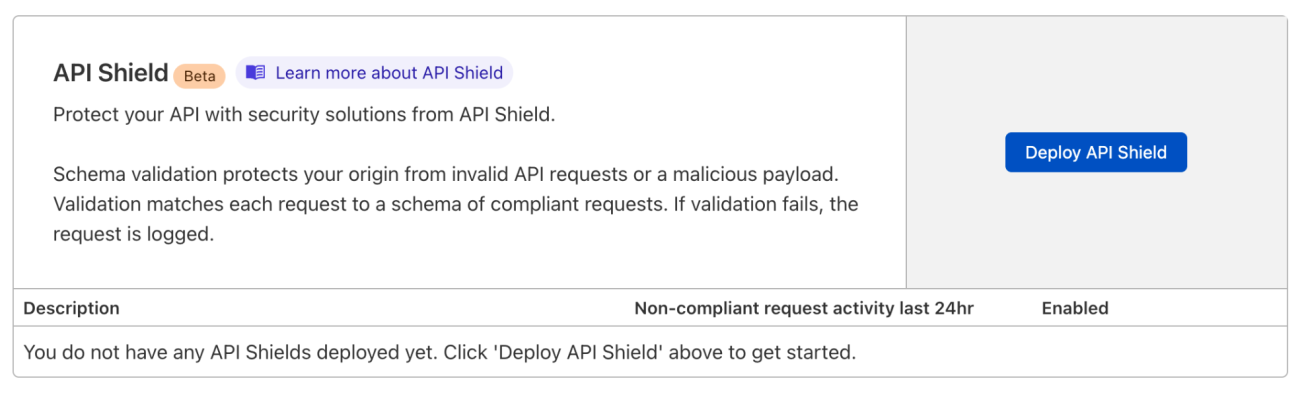
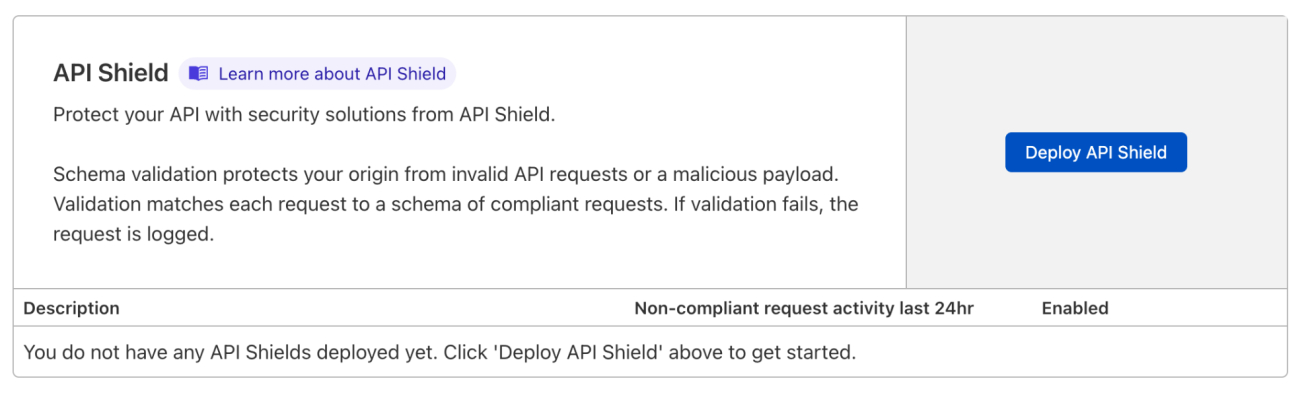
Update Schema Validation docs to GA (#1173)

Changed region(s): [[0.1231, 0.1527, 0.4, 0.2443]]

diff --git a/products/firewall/src/content/cf-dashboard/configure-schema-validation.md b/products/firewall/src/content/cf-dashboard/configure-schema-validation.md
@@ -1,5 +1,6 @@
 ---
 order: 390
+type: overview
 ---
 
 # Configure Schema Validation
@@ -14,7 +15,7 @@ Use the **API Shield** interface to configure API Schema Validation which valida
 
 Before you can configure Schema Validation for an API, you must obtain its API Schema file. API Shield supports API Schemas using OpenAPI Specification v3. The accepted file formats are YAML (files with a `.yml` or `.yaml` file extension) and JSON (files with a `.json` file extension).
 
-## Use the API Shield interface
+## Create an API Shield with Schema Validation
 
 To configure Schema Validation in the Cloudflare dashboard, follow these steps:
 
@@ -70,17 +71,19 @@ To configure Schema Validation in the Cloudflare dashboard, follow these steps:
 
     </Aside>
 
-1. After deploying your API Shield rule, Cloudflare displays a summary of all API endpoints organized by their protection level and what will be the action taken for non-compliant and unprotected requests.
+1. After deploying your API Shield rule, Cloudflare displays a summary of all API endpoints organized by their protection level and what will be the actions taken for non-compliant and unprotected requests.
 
     ![API Shield Review endpoints wizard step](../images/api-shield-review-endpoints-step.png)
 
-    The API Shield rule will validate all incoming requests addressed at the endpoints listed in the **Protected** section. The several columns in the table list the validations deployed for each endpoint, according to the information described in the API Schema file. The **Action** column indicates the action taken by API Shield for incoming requests that fail Schema Validation.
+    The API Shield rule will validate all incoming requests addressed at the endpoints listed in **API Schema endpoints**. The several columns in the table list the validations deployed for each endpoint, according to the information described in the API Schema file.
 
-    The **Unprotected** section lists endpoints that API Shield will not protect. This list includes any endpoints with API Schema definitions that API Shield does not support. There’s an additional validation for handling requests addressed to any other endpoints or URLs other than the ones described in the schema file. The **Action** column indicates the action taken by API Shield for all incoming requests addressed at these unprotected API endpoints.
+1. In the **Endpoint action** dropdown, select the action that API Shield will perform for every request targeting a protected endpoint that fails Schema Validation.
+
+1. In the **Fallthrough action** dropdown, select the action to perform for incoming requests addressed at other (non-protected) API endpoints.
 
     <Aside type='warning'>
     
-    Currently, request body validations are not supported. Additionally, the only available action is _Log_.
+    Currently, request body validations are not supported.
 
     </Aside>
 

diff --git a/products/firewall/src/content/cf-firewall-rules/api-shield.md b/products/firewall/src/content/cf-firewall-rules/api-shield.md
@@ -7,7 +7,7 @@ order: 250
 Cloudflare API Shield allows you to secure your APIs using the following security solutions:
 
 - **Mutual TLS (mTLS)** - Blocks traffic from devices that do not have a valid client SSL/TLS certificate with an API Shield rule.
-- **Schema Validation (Beta)** - Protects your origin from invalid API requests or a malicious payload by matching each request with the provided schema.
+- **Schema Validation** - Protects your origin from invalid API requests or a malicious payload by matching each request with the provided schema.
 
 ## A positive security model for APIs
 
@@ -53,7 +53,7 @@ When using Yubikeys, the browser may prompt for unlocking the key due to a probl
 
 </Aside>
 
-## Schema Validation - Beta
+## Schema Validation
 
 <Aside type='note'>
 
@@ -71,10 +71,8 @@ To configure Schema Validation for one or more hosts using the dashboard, check 
 
 <Aside type='warning'>
 
-**Notes about the current Beta:**
+**Important**
 
-- The only available action for requests whose validations fail is _Log_.
-- You cannot edit an API Shield. If you need to make changes, delete the existing shield and create a new one.
-- API Shield cannot validate some features of API Schemas, including the following: request body validations, all responses, external references, non-basic path templating, or unique items.
+Currently, API Shield cannot validate some features of API Schemas, including the following: request body validations, all responses, external references, non-basic path templating, or unique items.
 
 </Aside>
